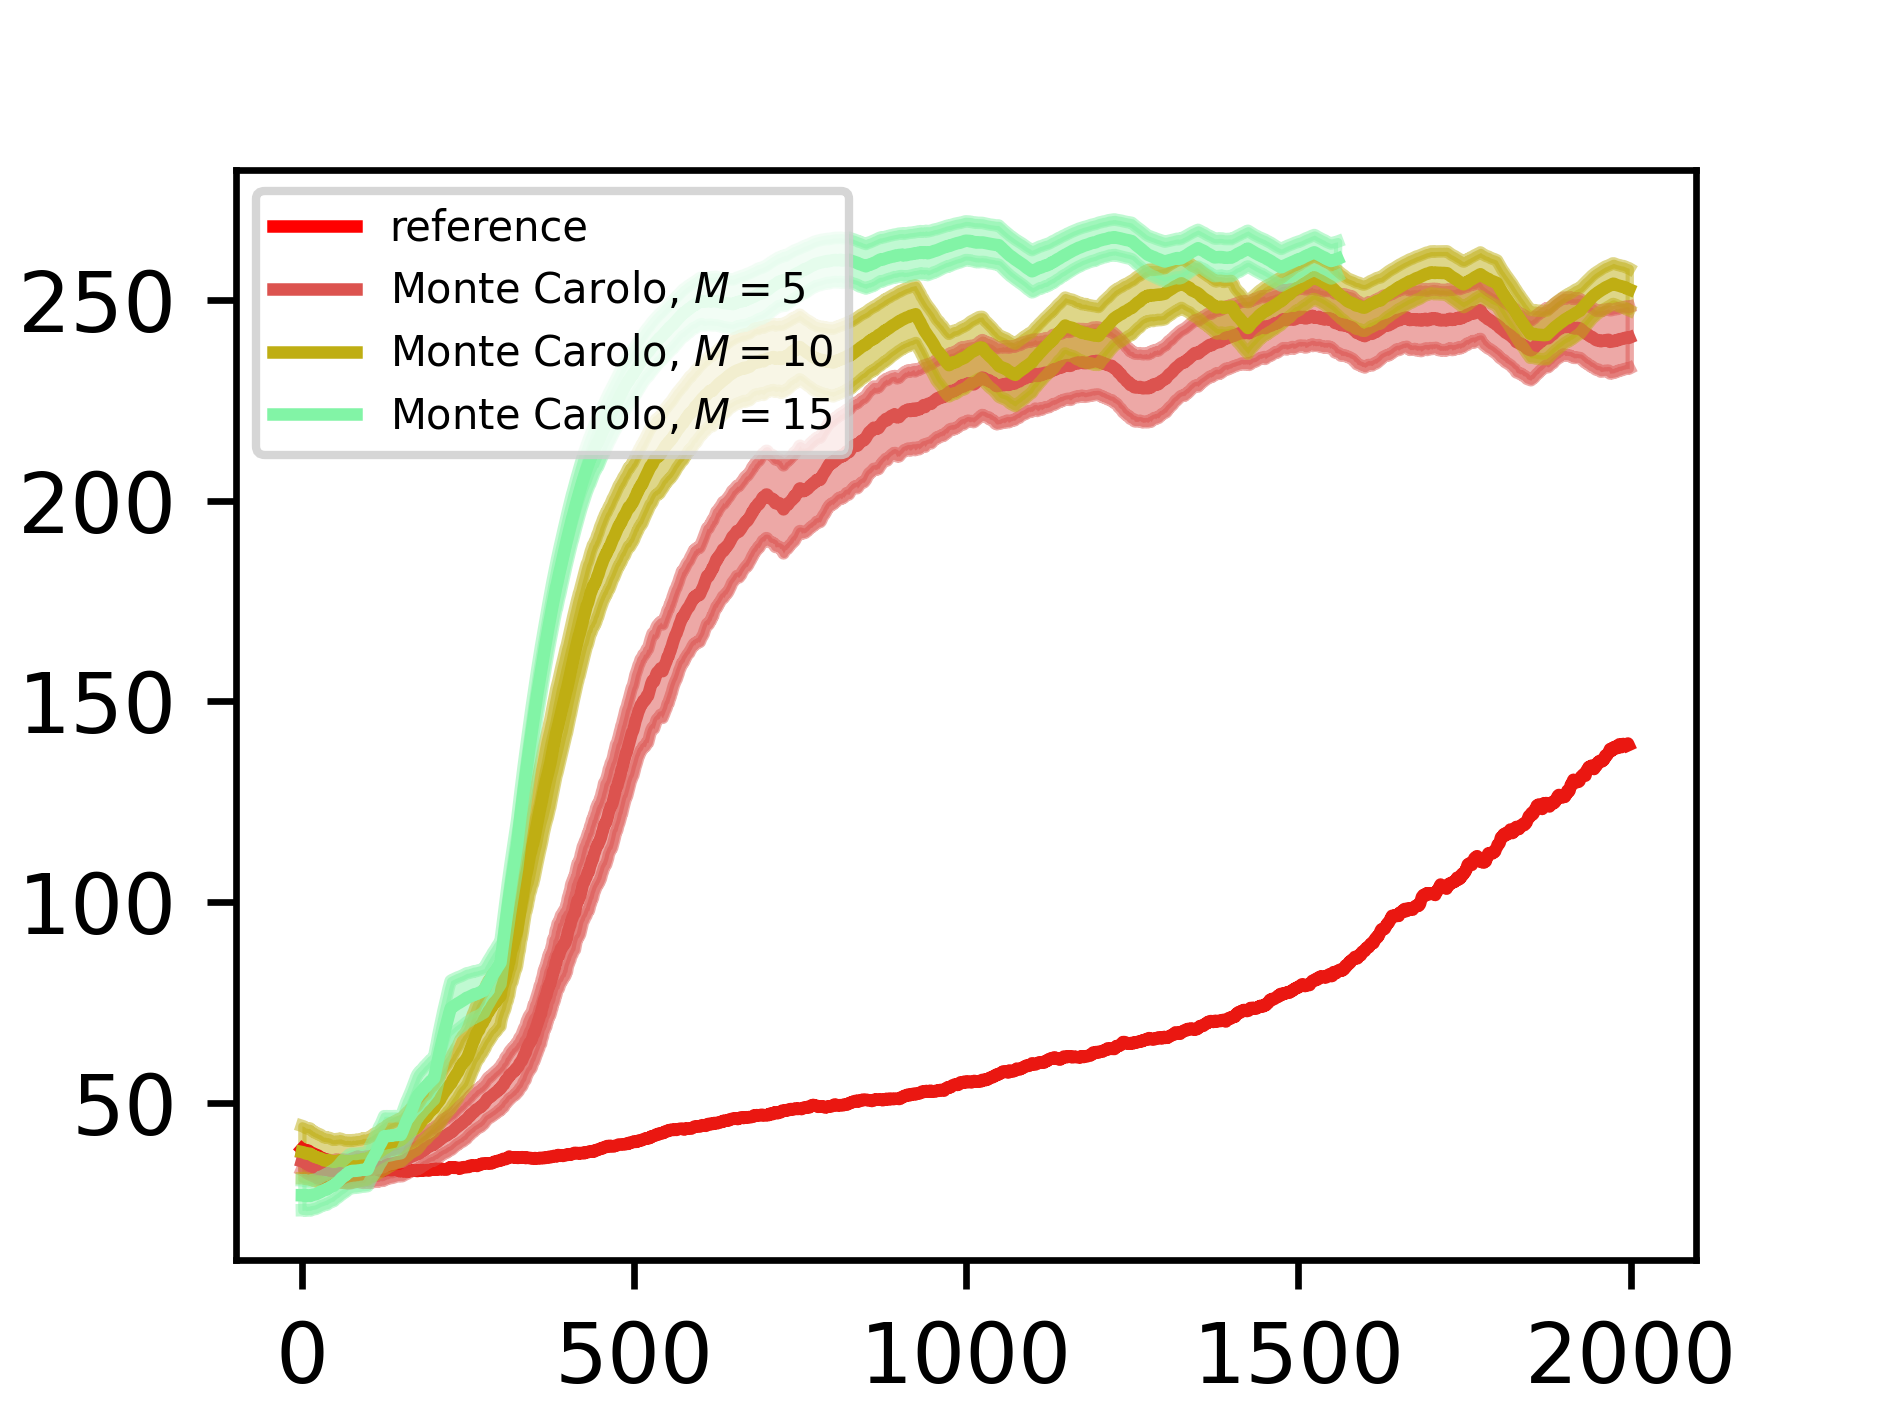
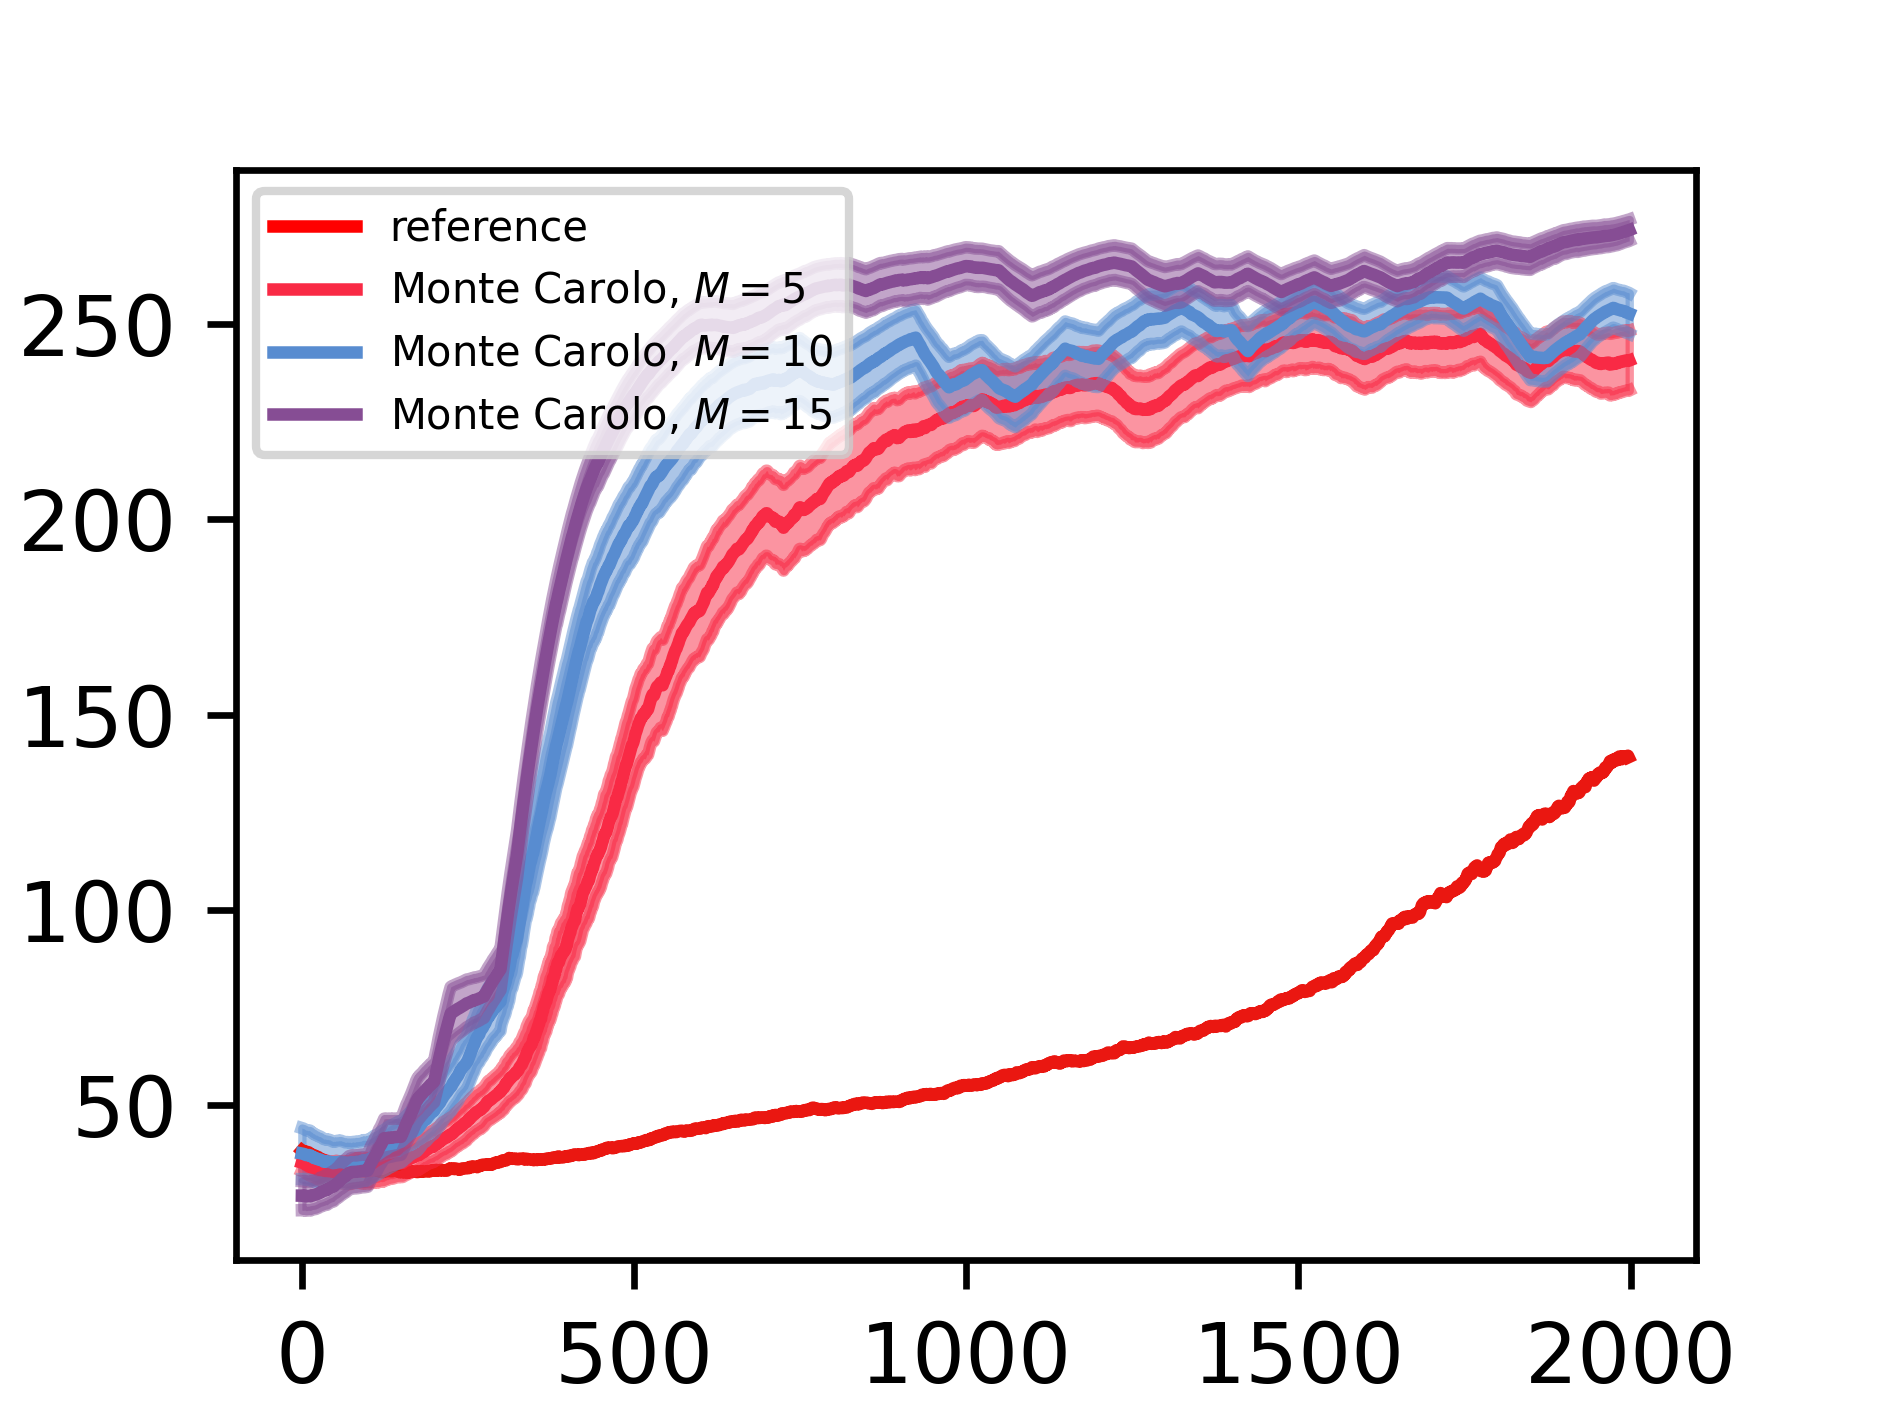
new

diff --git a/plot_test.py b/plot_test.py
@@ -93,13 +93,25 @@ def np_smooth(targets, weight=0.99):  # Weight between 0 and 1
 def run_mc_plot():
     colors = {}
     ms = [1,2,5,10,15,20,50,100]
-    for i in ms:
+    rgb_1 = np.linspace(0,1,8)
+    rgb_1 = list(itertools.permutations(rgb_1))[50]
+    rgb_1 = [0,0.7,0,0.9,0.1,0.2,0.3,0.5]
+    rgb_2 = np.linspace(1,0,8)
+    rgb_2 = list(itertools.permutations(rgb_2))[10]
+    rgb_2 = [0,0.7,0.4,0.4,0.6,0.2,0.3,0.5]
+    rgb_3 = np.linspace(0,1,8)
+    rgb_3 = list(itertools.permutations(rgb_3))[40]
+    rgb_3 = [0,0.7,1,0.1,0.1,0.2,0.3,0.5]
+    for j,i in enumerate(ms):
         r = random.uniform(0, 1)
+        r = rgb_1[j]
         g = random.uniform(0, 1)
+        g = rgb_2[j]
         b = random.uniform(0, 1)
+        b = rgb_3[j]
         colors[i] = (r,g,b)
-    steps = 100
-    subfolder = 'new'
+    steps = 300
+    subfolder = 'new2'
     gradient = ''
     
     for name, ms_sep in zip(['1','2'],[ms[2:5],ms[5:8]]):
@@ -124,10 +136,10 @@ def run_mc_plot():
                                                 runs=1)
             x_vals = list(range(epic_mean_std.shape[0]))
             ax.plot(x_vals, epic_mean_std[:,0], color = colors[m], label = r"Monte Carolo, $M=${}".format(m))
-            ax.plot(x_vals, epic_mean_std[:,0]+epic_mean_std[:,1],color = colors[m], alpha=0.5)
-            ax.plot(x_vals, epic_mean_std[:,0]-epic_mean_std[:,1], color = colors[m],alpha=0.5)
+            ax.plot(x_vals, epic_mean_std[:,0]+epic_mean_std[:,1],color = colors[m], alpha=0.1)
+            ax.plot(x_vals, epic_mean_std[:,0]-epic_mean_std[:,1], color = colors[m],alpha=0.1)
             ax.fill_between(x_vals, y1=epic_mean_std[:,0]-epic_mean_std[:,1], \
-                            y2=epic_mean_std[:,0]+epic_mean_std[:,1], color = colors[m],alpha=0.5)
+                            y2=epic_mean_std[:,0]+epic_mean_std[:,1], color = colors[m],alpha=0.1)
 
         ax.set_xticks([0, 500, 1000, 1500, 2000])
         ax.legend(loc='upper left', labelspacing=0.5,fontsize=5) 
@@ -136,95 +148,212 @@ def run_mc_plot():
         # plt.show()
         plt.savefig('./results/montecarlo/{}/multimodal/step{}_epic25_episodes_nosingle_mc_compare_{}_{}'.format(subfolder, steps, name, gradient))
 
-
-
-if __name__ =="__main__":
-    # run_mc_plot()
-    # sys.exit(0)
-
-    subfolder = "test/nosingle_kl"
+def run_mc_compare_maml_plot():
+    colors = {}
+    ms = [1,2,5,10,15,20,50,100]
+    rgb_1 = np.linspace(0,1,8)
+    rgb_1 = list(itertools.permutations(rgb_1))[50]
+    rgb_1 = [0,0.7,0,0.9,0.1,0.2,0.3,0.5]
+    rgb_2 = np.linspace(1,0,8)
+    rgb_2 = list(itertools.permutations(rgb_2))[10]
+    rgb_2 = [0,0.7,0.4,0.4,0.6,0.2,0.3,0.5]
+    rgb_3 = np.linspace(0,1,8)
+    rgb_3 = list(itertools.permutations(rgb_3))[40]
+    rgb_3 = [0,0.7,1,0.1,0.1,0.2,0.3,0.5]
+    for j,i in enumerate(ms):
+        r = random.uniform(0, 1)
+        r = rgb_1[j]
+        g = random.uniform(0, 1)
+        g = rgb_2[j]
+        b = random.uniform(0, 1)
+        b = rgb_3[j]
+        colors[i] = (r,g,b)
     steps = 300
+    subfolder = 'new2'
+    name = 'maml'
+    gradient = 'avg'
+    
+    mc_compare = {}
+    for m in ms[2:]:
+        fname = './results/montecarlo/{}/multimodal/EPIC_CartPole-v0_vpg_s2000_n10_every25_size32_c0.5_tau0.5_goal10.0_steps{}_mass5.0_mc{}'.format(subfolder,steps, m)
+        epic_mean_std = read_rewards_multi_mc(filename=fname,
+                                                samples=2000,
+                                                runs=1)
+        x_vals = list(range(epic_mean_std.shape[0]))
+        epic_mean = np.mean(epic_mean_std[:,0])
+        mc_compare[m] = epic_mean
+    mc_max = max(zip(mc_compare.values(), mc_compare.keys()))[1]
+
+    for name, ms_sep in zip(['1','2'],[ms[2:5],ms[5:8]]):
+        fig, ax = plt.subplots(figsize=(1.57 * 2, 1.18 * 2), dpi=600)
+        # add the baselines
+        for e in [10]:
+            epic_mean, epic_std = read_rewards_multi(filename='./results/test/nosingle_kl/multimodal/EPIC_CartPole-v0_vpg_s2000_n{}_every25_size32_c0.5_tau0.5_goal10.0_steps{}_mass5.0'.format(e,steps),
+                                                    samples=2000,
+                                                    episodes=e,
+                                                    runs=1)
+        
+        
+            x_vals = list(range(len(epic_mean)))
+            ax.plot(x_vals, epic_mean, color='red',label = "reference")
+            ax.plot(x_vals, epic_mean+epic_std,  alpha=0.1)
+            ax.plot(x_vals, epic_mean-epic_std,  alpha=0.1)
+            ax.fill_between(x_vals, y1=epic_mean-epic_std, y2=epic_mean+epic_std, alpha=0.1)
+        
+        # add the MAMLs 
+        maml_mean, maml_std = read_rewards_multi(filename='./results_maml/multimodal/maml_CartPole-v0_vpg_s2000_n10_every50_size32_goal0.5_steps{}_mass5.0'.format(steps),
+                                             samples=2000,
+                                             episodes=10,
+                                             runs=4)
+        x_vals = list(range(len(maml_mean)))
+        lb = 'maml'
+        ax.plot(x_vals, maml_mean, color = '#2980B9', label=lb)
+        ax.plot(x_vals, maml_mean+maml_std, color = '#2980B9', alpha=0.1)
+        ax.plot(x_vals, maml_mean-maml_std, color = '#2980B9', alpha=0.1)
+        ax.fill_between(x_vals, y1=maml_mean-maml_std, y2=maml_mean+maml_std, alpha=0.1, color="#2980B9")
+        
+
+        for m in ms_sep:
+            if m == mc_max:
+                fname = './results/montecarlo/{}/multimodal/EPIC_CartPole-v0_vpg_s2000_n10_every25_size32_c0.5_tau0.5_goal10.0_steps{}_mass5.0_mc{}'.format(subfolder,steps, m)
+                epic_mean_std = read_rewards_multi_mc(filename=fname,
+                                                    samples=2000,
+                                                    runs=1)
+                x_vals = list(range(epic_mean_std.shape[0]))
+                ax.plot(x_vals, epic_mean_std[:,0], color = colors[10], label = r"EPICG".format(m))
+                ax.plot(x_vals, epic_mean_std[:,0]+epic_mean_std[:,1],color = colors[10], alpha=0.1)
+                ax.plot(x_vals, epic_mean_std[:,0]-epic_mean_std[:,1], color = colors[10],alpha=0.1)
+                ax.fill_between(x_vals, y1=epic_mean_std[:,0]-epic_mean_std[:,1], \
+                                y2=epic_mean_std[:,0]+epic_mean_std[:,1], color = colors[10],alpha=0.1)
+
+        ax.set_xticks([0, 500, 1000, 1500, 2000])
+        ax.legend(loc='upper left', labelspacing=0.5,fontsize=5) 
+        # plt.yticks([-15, -10, -5, 0])
+        # plt.tick_params(labelbottom=False, labelleft=False)
+        # plt.show()
+        plt.savefig('./results/montecarlo/{}/multimodal/step{}_epic25_episodes_nosingle_mc_maml_compare_{}_{}'.format(subfolder, steps, name, gradient))
+
+
+def run_ablation():
+    colors = {}
+    ms = ["kl, no single", "kl, no single, N=1","kl, no single, using prior",\
+          'single and kl', 'single, nokl','maml']
+    rgb_1 = np.linspace(0,1,6)
+    rgb_1 = list(itertools.permutations(rgb_1))[15]
+    rgb_1 = [0,3.9,0.1,0.2,0.2,0.7]
+    rgb_2 = np.linspace(1,0,6)
+    rgb_2 = list(itertools.permutations(rgb_2))[10]
+    rgb_2 = [0.7,0.4,0.6,0.2,0.5,0.7]
+    rgb_3 = np.linspace(0,1,6)
+    rgb_3 = list(itertools.permutations(rgb_3))[20]
+    rgb_3 = [0.2,0.1,0.1,0.2,1,0.7]
+
+    for j,i in enumerate(ms):
+        r = random.uniform(0, 1)
+        r = rgb_1[j]
+        g = random.uniform(0, 1)
+        g = rgb_2[j]
+        b = random.uniform(0, 1)
+        b = rgb_3[j]
+        colors[i] = (r,g,b)
+
+    subfolder = "test/nosingle_kl/default"
+    steps = 100
     fig, ax = plt.subplots(figsize=(1.57 * 2, 1.18 * 2), dpi=600)
     for e in [10]:
         epic_mean, epic_std = read_rewards_multi(filename='./results/{}/multimodal/EPIC_CartPole-v0_vpg_s2000_n{}_every25_size32_c0.5_tau0.5_goal10.0_steps{}_mass5.0'.format(subfolder,e, steps),
                                                 samples=2000,
                                                 episodes=e,
-                                                runs=1)
+                                                runs=5)
     
-    
+        lb = "kl, no single"
+        label = "Add Regularizer"
         x_vals = list(range(len(epic_mean)))
-        ax.plot(x_vals, epic_mean, label = "kl, no single", color='orange')
-        ax.plot(x_vals, epic_mean+epic_std,  alpha=0.1)
-        ax.plot(x_vals, epic_mean-epic_std,  alpha=0.1)
-        ax.fill_between(x_vals, y1=epic_mean-epic_std, y2=epic_mean+epic_std, alpha=0.1)
+        ax.plot(x_vals, epic_mean, label = label, color = colors[lb])
+        ax.plot(x_vals, epic_mean+epic_std,  alpha=0.1, color = colors[lb])
+        ax.plot(x_vals, epic_mean-epic_std,  alpha=0.1, color = colors[lb])
+        ax.fill_between(x_vals, y1=epic_mean-epic_std, y2=epic_mean+epic_std, alpha=0.1, color = colors[lb])
     
     
-    epic_mean, epic_std = read_rewards_multi(filename='./results/{}/multimodal/EPIC_CartPole-v0_vpg_s2000_n{}_every1_size32_c0.5_tau0.5_goal10.0_steps{}_mass5.0'.format(subfolder,e, steps),
-                                                samples=2000,
-                                                episodes=e,
-                                                runs=1)
+    # epic_mean, epic_std = read_rewards_multi(filename='./results/{}/multimodal/EPIC_CartPole-v0_vpg_s2000_n{}_every1_size32_c0.5_tau0.5_goal10.0_steps{}_mass5.0'.format(subfolder,e, steps),
+    #                                             samples=2000,
+    #                                             episodes=e,
+    #                                             runs=3)
+    
+    # lb = "kl, no single, N=1"
+    # x_vals = list(range(len(epic_mean)))
+    # ax.plot(x_vals, epic_mean, label = lb, color = colors[lb])
+    # ax.plot(x_vals, epic_mean+epic_std,  alpha=0.1, color = colors[lb])
+    # ax.plot(x_vals, epic_mean-epic_std,  alpha=0.1, color = colors[lb])
+    # ax.fill_between(x_vals, y1=epic_mean-epic_std, y2=epic_mean+epic_std, alpha=0.1, color = colors[lb])
+    
+
+
+    
+    # subfolder = "test/nosingle_kl/prior"
+    # epic_mean, epic_std = read_rewards_multi(filename='./results/{}/multimodal/EPIC_CartPole-v0_vpg_s2000_n{}_every25_size32_c0.5_tau0.5_goal10.0_steps{}_mass5.0'.format(subfolder,e, steps),
+    #                                             samples=2000,
+    #                                             episodes=e,
+    #                                             runs=5)
     
     
-    x_vals = list(range(len(epic_mean)))
-    ax.plot(x_vals, epic_mean, label = "kl, no single, N=1", color='pink')
-    ax.plot(x_vals, epic_mean+epic_std,  alpha=0.1)
-    ax.plot(x_vals, epic_mean-epic_std,  alpha=0.1)
-    ax.fill_between(x_vals, y1=epic_mean-epic_std, y2=epic_mean+epic_std, alpha=0.1)
+    # x_vals = list(range(len(epic_mean)))
+    # lb = "kl, no single, using prior"
+    # ax.plot(x_vals, epic_mean, label = lb, color = colors[lb])
+    # ax.plot(x_vals, epic_mean+epic_std,  alpha=0.1, color = colors[lb])
+    # ax.plot(x_vals, epic_mean-epic_std,  alpha=0.1, color = colors[lb])
+    # ax.fill_between(x_vals, y1=epic_mean-epic_std, y2=epic_mean+epic_std, alpha=0.1, color = colors[lb])
     
+    # epic_mean, epic_std = read_rewards_multi(filename='./results/test/single/multimodal/EPIC_CartPole-v0_vpg_s2000_n10_every25_size32_c0.5_tau0.5_goal10.0_steps{}_mass5.0'.format(steps),
+    #                                             samples=2000,
+    #                                             episodes = 10,
+    #                                             runs=4)
     
-    subfolder = "test/nosingle_kl/prior"
-    epic_mean, epic_std = read_rewards_multi(filename='./results/{}/multimodal/EPIC_CartPole-v0_vpg_s2000_n{}_every25_size32_c0.5_tau0.5_goal10.0_steps{}_mass5.0'.format(subfolder,e, steps),
-                                                samples=2000,
-                                                episodes=e,
-                                                runs=1)
+    # lb = 'single and kl'
+    # x_vals = list(range(len(epic_mean)))
+    # ax.plot(x_vals, epic_mean, label = lb, color = colors[lb])
+    # ax.plot(x_vals, epic_mean+epic_std,  alpha=0.1, color = colors[lb])
+    # ax.plot(x_vals, epic_mean-epic_std,  alpha=0.1, color = colors[lb])
+    # ax.fill_between(x_vals, y1=epic_mean-epic_std, y2=epic_mean+epic_std, alpha=0.1, color = colors[lb])
     
-    
-    x_vals = list(range(len(epic_mean)))
-    ax.plot(x_vals, epic_mean, label = "kl, no single, using prior", color='green')
-    ax.plot(x_vals, epic_mean+epic_std,  alpha=0.1)
-    ax.plot(x_vals, epic_mean-epic_std,  alpha=0.1)
-    ax.fill_between(x_vals, y1=epic_mean-epic_std, y2=epic_mean+epic_std, alpha=0.1)
-    
-    epic_mean, epic_std = read_rewards_multi(filename='./results/test/single/multimodal/EPIC_CartPole-v0_vpg_s2000_n10_every25_size32_c0.5_tau0.5_goal10.0_steps{}_mass5.0'.format(steps),
-                                                samples=2000,
-                                                episodes = 10,
-                                                runs='1')
-    
-    
-    x_vals = list(range(len(epic_mean)))
-    ax.plot(x_vals, epic_mean, label = 'single and kl')
-    ax.plot(x_vals, epic_mean+epic_std,  alpha=0.1)
-    ax.plot(x_vals, epic_mean-epic_std,  alpha=0.1)
-    ax.fill_between(x_vals, y1=epic_mean-epic_std, y2=epic_mean+epic_std, alpha=0.1)
-    
-    
-    maml_mean, maml_std = read_rewards_multi(filename='./results_maml/multimodal/maml_CartPole-v0_vpg_s2000_n10_every50_size32_goal0.5_steps{}_mass5.0'.format(steps),
-                                             samples=2000,
-                                             episodes=10,
-                                             runs=1)
-    x_vals = list(range(len(maml_mean)))
-    plt.plot(x_vals, maml_mean, color="#2980B9", label='maml')
-    plt.plot(x_vals, maml_mean+maml_std, color="#2980B9", alpha=0.1)
-    plt.plot(x_vals, maml_mean-maml_std, color="#2980B9", alpha=0.1)
-    plt.fill_between(x_vals, y1=maml_mean-maml_std, y2=maml_mean+maml_std, alpha=0.1, color="#2980B9")
-    
+
     subfolder = "test/single_nokl"
     epic_mean, epic_std = read_rewards_multi(filename='./results/{}/multimodal/EPIC_CartPole-v0_vpg_s2000_n10_every25_size32_c0.5_tau0.5_goal10.0_steps{}_mass5.0'.format(subfolder,steps),
                                                 samples=2000,
                                                 episodes = 10,
-                                                runs='0')
-    
-    
+                                                runs=5)
+    lb = 'single, nokl'
+    label = 'No Regularizer'
     x_vals = list(range(len(epic_mean)))
-    ax.plot(x_vals, epic_mean, label = 'single, nokl')
-    ax.plot(x_vals, epic_mean+epic_std,  alpha=0.1)
-    ax.plot(x_vals, epic_mean-epic_std,  alpha=0.1)
-    ax.fill_between(x_vals, y1=epic_mean-epic_std, y2=epic_mean+epic_std, alpha=0.1)
-
+    ax.plot(x_vals, epic_mean, label = label, color = colors[lb])
+    ax.plot(x_vals, epic_mean+epic_std,  alpha=0.1,color = colors[lb])
+    ax.plot(x_vals, epic_mean-epic_std,  alpha=0.1, color = colors[lb])
+    ax.fill_between(x_vals, y1=epic_mean-epic_std, y2=epic_mean+epic_std, alpha=0.1, color = colors[lb])
+    
+    # maml_mean, maml_std = read_rewards_multi(filename='./results_maml/multimodal/maml_CartPole-v0_vpg_s2000_n10_every50_size32_goal0.5_steps{}_mass5.0'.format(steps),
+    #                                          samples=2000,
+    #                                          episodes=10,
+    #                                          runs=1)
+    # x_vals = list(range(len(maml_mean)))
+    # lb = 'maml'
+    # plt.plot(x_vals, maml_mean, color = colors[lb], label=lb)
+    # plt.plot(x_vals, maml_mean+maml_std, color = colors[lb], alpha=0.1)
+    # plt.plot(x_vals, maml_mean-maml_std, color = colors[lb], alpha=0.1)
+    # plt.fill_between(x_vals, y1=maml_mean-maml_std, y2=maml_mean+maml_std, alpha=0.1, color="#2980B9")
+    
     ax.set_xticks([0, 500, 1000, 1500, 2000])
     ax.legend(loc='upper left', labelspacing=0.5,fontsize=5) 
     # plt.yticks([-15, -10, -5, 0])
     # plt.tick_params(labelbottom=False, labelleft=False)
     # plt.show()
-    subfolder = 'test/nosingle_kl/prior'
-    plt.savefig('./results/{}/multimodal/step{}_epic25_episodes_nosingle_single_mc_compare'.format(subfolder, steps))
+    subfolder = 'test/single'
+    plt.savefig('./results/{}/multimodal/step{}_epic25_episodes_single_kl_nokl_compare'.format(subfolder, steps))
+
+
+if __name__ =="__main__":
+    # run_mc_plot()
+    # run_mc_compare_maml_plot()
+    run_ablation()
+    sys.exit(0)
+    
+    

diff --git a/plot_mc.py b/plot_mc.py
@@ -50,7 +50,7 @@ if __name__ =="__main__":
     colors[10] = '#D35400'
     colors[20] = "#2980B9"
     for m in [10, 20, 50, 100]:
-        fname = './results/montecarlo/multimodal/EPIC_CartPole-v0_vpg_s2000_n10_every25_size32_c0.5_tau0.5_goal10.0_steps100_mass5.0_mc{}'.format(m)
+        fname = './results/montecarlo/new/multimodal/EPIC_CartPole-v0_vpg_s2000_n10_every25_size32_c0.5_tau0.5_goal10.0_steps100_mass5.0_mc{}'.format(m)
         epic_mean, epic_std = read_rewards_multi(filename=fname,
                                              samples=2000,
                                              episodes=1,
